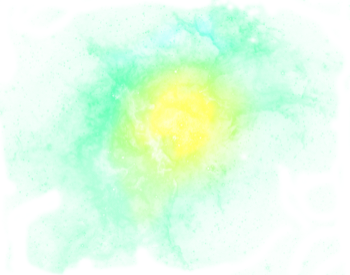
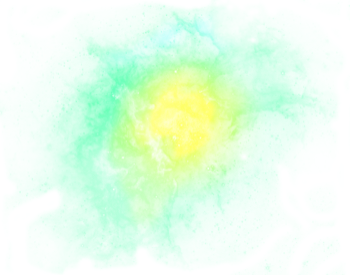
tweaking nebulae

diff --git a/public/app.js b/public/app.js
@@ -1,4 +1,4 @@
-/*! bauralux - v1.0.0 - 2016-02-12
+/*! bauralux - v1.0.0 - 2016-02-22
 * Copyright (c) 2016  *//*!
  * jQuery JavaScript Library v1.9.1
  * http://jquery.com/
@@ -20362,7 +20362,7 @@ Quintus.UI = function(Q) {
         w: Q.width,
         h: Q.height,
         type: Q.SPRITE_PARTICLE,
-        opacity: 0.15,
+        opacity: 0.10,
         scale: 2
       });
       this.p.x = this.asset().width * this.p.scale / 2 * -1;
@@ -20509,13 +20509,16 @@ Quintus.UI = function(Q) {
     },
     drawNebula: function(ctx) {
       var dim, nebula, path, xy;
+      if (this.teamResource.val() === Team.NONE) {
+        return;
+      }
       path = "planets/" + (this.teamResource.val().name.toLowerCase()) + "/nebula_0.png";
       nebula = Q.asset(path);
       dim = _.min([nebula.width, nebula.height]) * this.p.scale * 2;
       xy = dim / 2;
       ctx.save();
       ctx.globalCompositeOperation = 'lighter';
-      ctx.globalAlpha = 0.08;
+      ctx.globalAlpha = 0.2;
       ctx.drawImage(nebula, -xy, -xy, dim, dim);
       return ctx.restore();
     },
